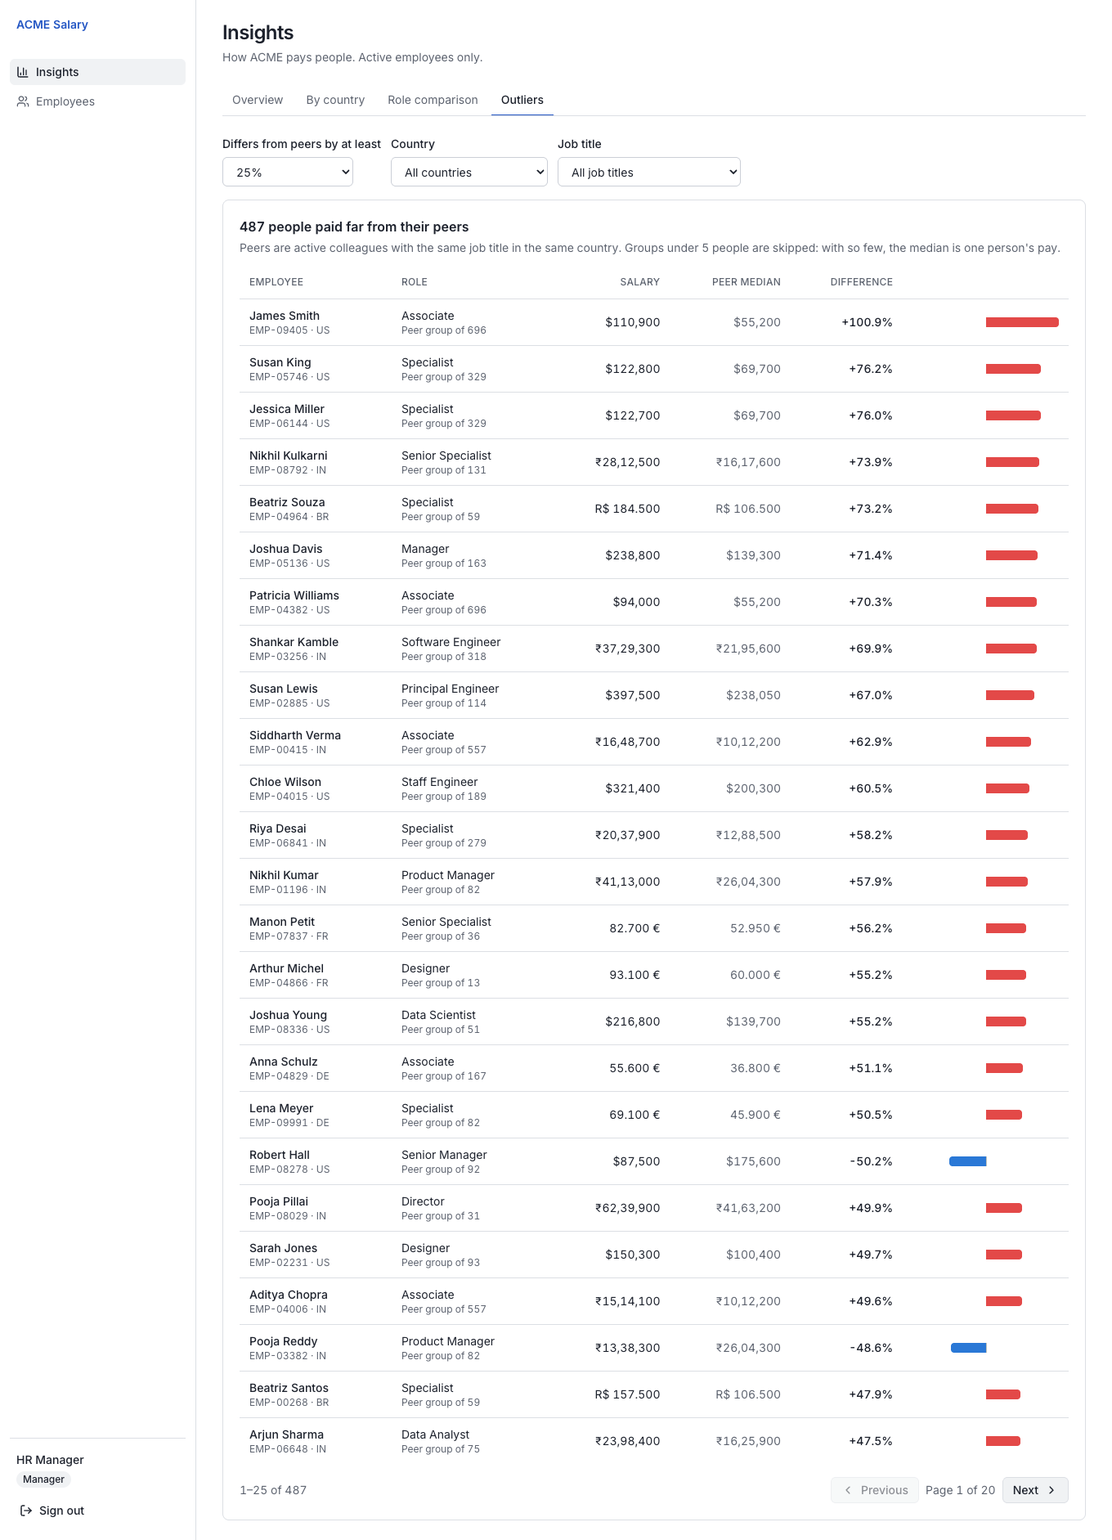
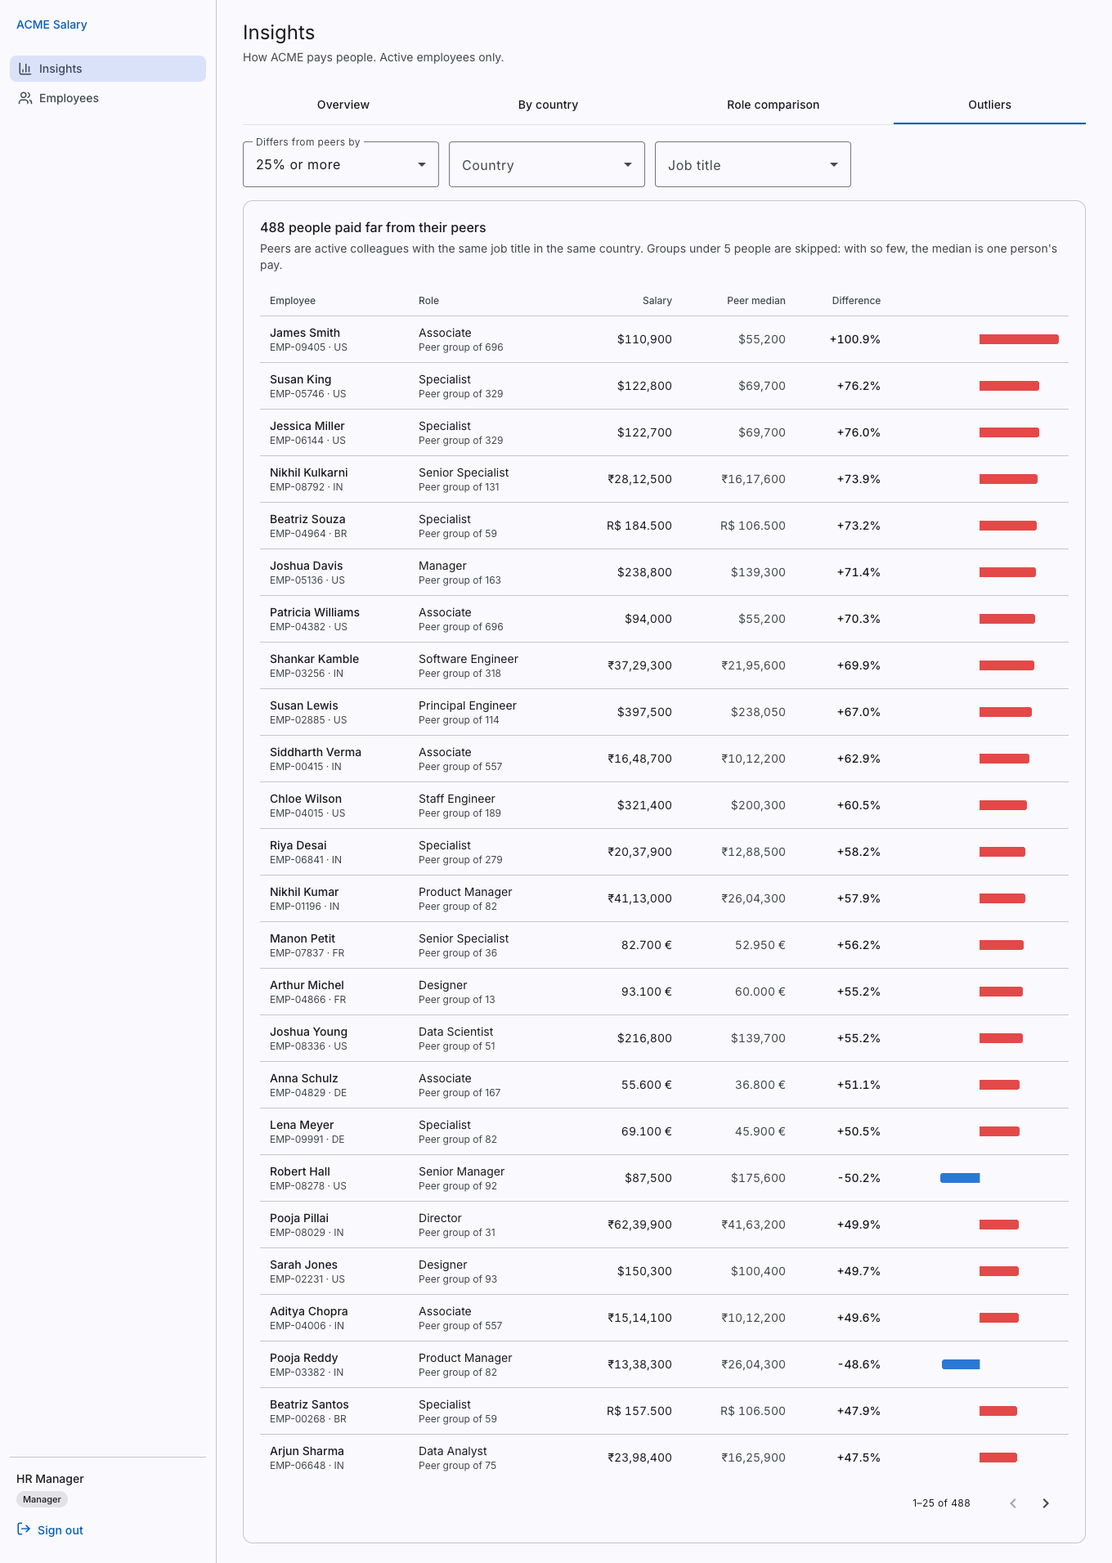
Document the Angular UI: ADR-0007, architecture, security, release 2.0.0
Architecture and security docs describe the Angular app and its nginx runtime, ADR-0007
records why the UI changed, the changelog adds release 2.0.0, and the screenshots are
retaken from the Angular release.

diff --git a/docs/architecture.md b/docs/architecture.md
@@ -11,19 +11,19 @@ flowchart LR
 
     subgraph release["compose.release.yml — one host"]
         direction LR
-        ui["frontend<br/>Next.js 16 standalone<br/>:3000 (only published port)"]
+        ui["frontend<br/>Angular 22 on nginx (unprivileged)<br/>:3000 (only published port)"]
         api["backend<br/>Spring Boot 4.1 · Java 21<br/>:8080 (internal)"]
         db[("postgres 16<br/>(internal, volume)")]
     end
 
     hr -- "HTTPS · session cookie<br/>HttpOnly · Secure · SameSite=Strict" --> ui
-    ui -- "pages: nonce CSP, auth redirect (proxy.ts)" --> ui
+    ui -- "static app · per-request CSP nonce" --> ui
     ui -- "/api/* proxied, same origin" --> api
     api -- "JDBC · Flyway migrations" --> db
 ```
 
-- The browser only ever talks to **one origin**. Next.js serves the pages and forwards `/api/*`
-  to Spring Boot, so cookies stay first-party and the API needs no CORS policy at all
+- The browser only ever talks to **one origin**. nginx serves the Angular app and forwards
+  `/api/*` to Spring Boot, so cookies stay first-party and the API needs no CORS policy at all
   ([ADR-0006](adr/0006-session-authentication.md)).
 - Only the UI port is published. The API and database are reachable solely inside the compose
   network; every container runs as a non-root user on a read-only filesystem with all Linux
@@ -85,7 +85,7 @@ reads are one hand-written SQL query per screen.
 sequenceDiagram
     autonumber
     participant B as Browser
-    participant P as Next.js proxy
+    participant P as nginx (/api proxy)
     participant S as Spring Security
     participant C as EmployeeCommandService
     participant E as Employee (domain)
@@ -176,32 +176,31 @@ erDiagram
 
 ## 5. Frontend
 
+Angular 22, standalone components, signals, zoneless ([ADR-0007](adr/0007-angular-frontend.md)).
+
 ```mermaid
 flowchart TB
-    subgraph app["src/app (routes)"]
-        login["(auth)/login"]
-        emp["(app)/employees · /employees/[id]"]
-        ins["(app)/insights · /countries · /roles · /outliers"]
+    routes["app.routes.ts<br/>/login · /employees · /employees/:id<br/>/insights · /countries · /roles · /outliers<br/>(lazy-loaded, authGuard)"]
+    subgraph features["src/app/features"]
+        auth["auth<br/>login page"]
+        employees["employees<br/>directory · detail · dialogs"]
+        insightsF["insights<br/>pages · charts · tables"]
+        reference["reference<br/>countries, departments, titles<br/>(loaded once)"]
     end
-    subgraph modules["src/modules (feature slices)"]
-        auth["auth"]
-        employees["employees"]
-        insightsM["insights"]
-        reference["reference"]
-    end
-    shared["src/shared<br/>api client (CSRF, typed errors) · UI primitives · formatting · CSP"]
-    proxy["src/proxy.ts<br/>nonce CSP · session redirect"]
+    core["src/app/core<br/>apiResource · interceptors (errors, CSRF retry)<br/>auth service + guard · icons"]
+    shared["src/app/shared<br/>formatting pipes · form errors · empty/error states"]
+    nginx["nginx<br/>CSP nonce → ngCspNonce · /api proxy · security headers"]
 
-    login --> auth
-    emp --> employees
-    ins --> insightsM
-    employees & insightsM --> reference
-    auth & employees & insightsM & reference --> shared
+    routes --> auth & employees & insightsF
+    employees & insightsF --> reference
+    auth & employees & insightsF & reference --> core
+    employees & insightsF --> shared
+    nginx -. serves .-> routes
 ```
 
-Each module follows Craveo's admin-app layout: `api/` (HTTP calls) → `hooks/` (TanStack Query)
-→ `components/`, with `types/` and `lib/` (pure, unit-tested logic such as URL state, form
-schemas and chart geometry).
+Each feature keeps `data/` (types, request builders and pure, unit-tested logic such as URL
+state, validators and chart geometry) apart from its components. Filter state lives in the
+URL, so every view can be bookmarked or shared.
 
 ## 6. Delivery pipeline
 
@@ -210,7 +209,7 @@ flowchart LR
     pr["Pull request"] --> ci
     subgraph ci["GitHub Actions"]
         be["backend<br/>mvn verify: 173 tests<br/>(Testcontainers Postgres)"]
-        fe["frontend<br/>audit · lint · 87 tests · build"]
+        fe["frontend<br/>audit · lint · 90 tests · build"]
         img["containers<br/>build images · Trivy scan<br/>(HIGH/CRITICAL fail)"]
         cq["CodeQL<br/>(once repo is public)"]
     end

diff --git a/SECURITY.md b/SECURITY.md
@@ -45,17 +45,17 @@ mistake does not become a breach — and making every security decision explicit
 | Repudiation of salary changes | Append-only history records who, when, what and why | `salary_history.changed_by` | `salaryChangeUpdatesSalary…` |
 | Exposed internals | Actuator exposes only `health` without details; API docs off unless enabled | `application.yml` | `otherActuatorEndpoints…` |
 | Vulnerable dependencies / code | Dependabot weekly (Maven, npm, Actions); CodeQL `security-extended` on every PR; CI fails on high/critical advisories in shipped frontend code | `.github/` | CI |
-| Malicious install scripts (npm supply chain) | pnpm 12 fails the install if any dependency not on the allow-list (only `unrs-resolver`) tries to run a script | `frontend/pnpm-workspace.yaml` | CI install |
+| Malicious install scripts (npm supply chain) | pnpm 12 fails the install if any dependency not on the allow-list (`esbuild`, `@parcel/watcher`) tries to run a script | `frontend/pnpm-workspace.yaml` | CI install |
 | Container breakout / lateral movement | Non-root user, read-only root filesystem, all Linux capabilities dropped, `no-new-privileges`, memory limits; only the UI port is published (API and database are internal to the compose network) | `compose.release.yml`, Dockerfiles | Verified on the running release |
-| Tools for an attacker inside the UI container | npm, npx and corepack are removed from the runtime image (the standalone server never needs them) | `frontend/Dockerfile` | Image scan + `command -v npm` |
+| Tools for an attacker inside the UI container | The UI image is nginx and static files only: no Node.js, no package manager | `frontend/Dockerfile` | Image scan |
 | Vulnerable images | CI builds both release images and fails on any fixable HIGH/CRITICAL finding (Trivy); Dependabot tracks base images | `.github/workflows/ci.yml` | CI `containers` job |
 | Hijacked CI actions | Third-party GitHub Actions pinned to full commit SHAs, not movable tags | `.github/workflows/ci.yml` | — |
-| Third-party fetches at build time | Font self-hosted from an npm package (`next/font/local`); the build makes no requests outside the package registry | `layout.tsx` | Offline build |
+| Third-party fetches at build time and runtime | Font and icons self-hosted from npm packages (`@fontsource-variable/inter`, `lucide-static`); the page loads nothing from other origins | `angular.json`, `styles.scss` | CSP `default-src 'self'` |
 | Hijacked fresh releases (npm supply chain) | `minimumReleaseAge`: no package version younger than 3 days is installed, directly or transitively | `frontend/pnpm-workspace.yaml` | CI `--frozen-lockfile` install |
-| XSS in the UI | React escaping; lint rule bans `dangerouslySetInnerHTML`; per-request nonce CSP with `strict-dynamic`, so injected scripts do not run | `proxy.ts`, `csp.ts`, `.eslintrc.json` | `csp.test.ts`; nonce verified on a production build |
-| Open redirect via `?next=` | Only same-site paths honoured after sign-in | `safeNextPath.ts` | `safeNextPath.test.ts`, `LoginForm.test.tsx` |
-| Data left behind on shared machines | Sign-out clears the entire client cache, not just the user | `useLogout` | — |
-| Search-engine exposure | `noindex, nofollow` on every page | `layout.tsx` | — |
+| XSS in the UI | Angular template escaping and sanitisation; lint rule bans `bypassSecurityTrust*` (one reviewed exception: the allow-listed icon resolver); per-request nonce CSP with `strict-dynamic` and no `unsafe-inline`, so injected scripts and styles do not run | `nginx/default.conf.template`, `index.html` (`ngCspNonce`), `eslint.config.mjs` | Browser checks report CSP violations: zero on every page |
+| Open redirect via `?next=` | Only same-site paths honoured after sign-in | `safe-next-path.ts` | `safe-next-path.spec.ts`, `login.page.spec.ts` |
+| Data left behind on shared machines | Sign-out ends the server session, then fully reloads the page so nothing from the session stays in memory | `shell.ts` | Browser check: `/me` returns 401 after sign-out |
+| Search-engine exposure | `noindex, nofollow` on every page | `index.html` | — |
 
 ## Deliberately out of scope (and what production would add)
 

diff --git a/README.md b/README.md
@@ -32,13 +32,13 @@ Only the UI port is published; the API and database stay inside the compose netw
 <details>
 <summary>Run from source instead (for development)</summary>
 
-Prerequisites: Java 21+, Docker, Node 22, pnpm 12.
+Prerequisites: Java 21+, Docker, Node 24, pnpm 12.
 
 ```bash
 docker compose up -d postgres                                   # Postgres 16 on localhost:5433
 cp .env.example .env && set -a && source .env && set +a
 (cd backend && ./mvnw -q -pl salary-app -am spring-boot:run)    # API on :8080
-(cd frontend && pnpm install && pnpm dev)                       # UI on http://localhost:3000
+(cd frontend && pnpm install && pnpm start)                     # UI on http://localhost:4200
 ```
 
 Tests: `cd backend && ./mvnw clean verify` (needs Docker for Testcontainers) and
@@ -64,8 +64,8 @@ Two roles: **HR Manager** (read and write) and **HR Analyst** (read only).
 | | |
 |---|---|
 | **Backend** | Java 21, Spring Boot 4.1 (Spring 7, Security 7, Hibernate 7, Jackson 3), PostgreSQL 16, Flyway 12 — a modular monolith with hexagonal modules, JPA for writes and SQL for reads |
-| **Frontend** | Next.js 16, React 19.3, TypeScript 6, TanStack Query, react-hook-form + zod 4, Tailwind 4, Recharts 3 |
-| **Tests** | 173 backend (JUnit 5, Mockito, Testcontainers 2, ArchUnit) · 87 frontend (Vitest, Testing Library) · browser checks with Playwright |
+| **Frontend** | Angular 22 (standalone, signals, zoneless), Angular Material, typed reactive forms, Chart.js 4, TypeScript 6 — served by unprivileged nginx ([ADR-0007](docs/adr/0007-angular-frontend.md)) |
+| **Tests** | 173 backend (JUnit 5, Mockito, Testcontainers 2, ArchUnit) · 90 frontend (Vitest, Angular Testing Library) · browser checks with Playwright |
 | **Delivery** | Every change through a pull request; CI runs tests, dependency audit, image build and Trivy scan; Dependabot weekly |
 
 The architecture mirrors an existing project of mine (Craveo), deliberately sized down: its
@@ -78,10 +78,10 @@ structure is kept, its infrastructure (Kafka, Redis, GraphQL, Kubernetes) is not
 |---|---|
 | [`REQUIREMENTS.md`](REQUIREMENTS.md) | Goal, scope, features, and what is deliberately left out — with reasons |
 | [`docs/architecture.md`](docs/architecture.md) | Diagrams: runtime, modules, request flow, data model, frontend, pipeline |
-| [`docs/adr/`](docs/adr/) | Six architecture decisions and their trade-offs |
+| [`docs/adr/`](docs/adr/) | Seven architecture decisions and their trade-offs |
 | [`SECURITY.md`](SECURITY.md) | Threat model: every threat, its control, and the test that proves it |
 | [`docs/performance.md`](docs/performance.md) | Measured timings at 10,000 employees, why, and where it would stop scaling |
 | [`docs/ai/README.md`](docs/ai/README.md) | How AI was used: the prompt log, and where review changed the outcome |
 | [`docs/PLAN.md`](docs/PLAN.md) | Phases, data model and test strategy |
 | [`docs/demo-script.md`](docs/demo-script.md) | Script for the demo video |
-| [`CHANGELOG.md`](CHANGELOG.md) | What release 1.0.0 contains, and its known limitations |
+| [`CHANGELOG.md`](CHANGELOG.md) | What each release contains, and its known limitations |

diff --git a/docs/ai/README.md b/docs/ai/README.md
@@ -121,6 +121,11 @@ conflict** — the exact "don't assume" failure the assessment screens for. It w
 when the recruiter's email named the role. The agent owned it, estimated the port (backend,
 API, tests and docs unchanged), and on approval rebuilt the UI in Angular.
 
+The port ran as four pull requests (#40 foundation, #41 employees, #42 insights, #43 cutover),
+each verified in a browser against the release containers before merging. The Next.js app was
+removed only in the last one, once the Angular UI did everything it did
+([ADR-0007](../adr/0007-angular-frontend.md)).
+
 ## Where human review changed the outcome
 
 Things caught by checking the agent's output against reality rather than accepting it:
@@ -166,3 +171,7 @@ Things caught by checking the agent's output against reality rather than accepti
 | **The UI was built in Next.js although the brief asked Java candidates for Angular.** | The user re-read the brief against the recruiter's email. | UI rebuilt in Angular; the backend and API were unaffected by design. Lesson: list every requirement and surface conflicts *before* building. |
 | The route guard called `inject()` after an `await` (NG0203): the app never redirected to sign-in. | Driving the container in a browser; a new guard test reproduces it. | Inject before the first await. |
 | A test kept failing after the fix. | Read the stack trace's line numbers against the file on disk. | Vitest's on-disk module cache served a stale compile; cleared, and documented in `CLAUDE.md`. |
+| Chart bar borders drew black. | Looked at the screenshots, not just the "chart painted" check. | Material's surface token is a `light-dark()` value, which canvas cannot parse; colours are now resolved through computed style. |
+| The role-comparison chart showed bands but no median dots. | Same screenshot review. | A line series on a horizontal bar chart plots on the wrong axis; points now carry explicit `{x, y}`. Unit test updated to assert the shape. |
+| The outliers page scrolled sideways at 768px, the same bug fixed earlier in the Next.js UI. | The overflow check at four widths, then listing every element past the viewport edge. | Screen-reader-only text escaped the scroll box again; the scroller is `relative`, and the Role column waits for 1024px. |
+| A scripted edit of `compose.release.yml` matched the wrong `volumes:` and mangled the file. | Read the diff before committing (37,000 changed lines for a 10-line change). | Restored from git; redid the edit with anchored markers. Never committed. |

diff --git a/docs/adr/0007-angular-frontend.md b/docs/adr/0007-angular-frontend.md
@@ -1,0 +1,43 @@
+# ADR-0007: Angular for the frontend
+
+**Status:** Accepted (supersedes the frontend rows of [ADR-0004](0004-what-we-left-out-from-craveo.md))
+
+## Context
+
+The brief lists the UI options as *"ReactJS or NextJS. AngularJS for Java"*. The role is a Java
+and Angular position, so the Java track's option applies: Angular.
+
+The first UI was built in Next.js, because the plan mirrored Craveo, whose admin app is Next.js.
+That followed the reference project instead of the brief. It was caught after the backend,
+the full UI and the release were done, and the UI was rebuilt in Angular in four pull
+requests (#40–#43) against the unchanged API.
+
+"AngularJS" (1.x) reached end of life in January 2022 and gets no security fixes. Shipping it
+would contradict the security posture of the rest of the system, so the brief is read as
+modern Angular.
+
+## Decision
+
+- **Angular 22** with Angular Material: standalone components, signals, zoneless change
+  detection, `OnPush` everywhere.
+- **Data:** `HttpClient` + `httpResource` through one small `apiResource` helper (unwraps the
+  API envelope, keeps the previous value while reloading, normalises errors). Angular's
+  built-in XSRF support sends `X-XSRF-TOKEN`; one interceptor retries once with a fresh token.
+- **Forms:** typed reactive forms with small, unit-tested validators; server field errors are
+  mapped back onto the form controls.
+- **Charts:** Chart.js behind one `app-chart` component. Chart configurations are pure
+  functions with unit tests; every chart has a table with the same numbers.
+- **Serving:** the production build is static files served by unprivileged nginx, which also
+  proxies `/api` to the backend, so the browser sees a single origin (ADR-0006). nginx puts a
+  per-request nonce into the page for the CSP (`ngCspNonce`). There is no Node.js at runtime.
+- **Tests:** Vitest through the Angular CLI with Testing Library; `HttpTestingController` for
+  pages that load data.
+
+## Consequences
+
+- Same API, behaviour and security model as before; the backend did not change.
+- The UI image went from 293 MB (Node standalone server) to 93 MB (nginx and static files),
+  and the runtime has no package manager or JavaScript engine to abuse.
+- Session-based route protection moved from server middleware to a route guard plus the API's
+  own 401s. The guard is a convenience; the API remains the security boundary.
+- Angular packages must move together, so Dependabot groups them into one PR.

diff --git a/docs/PLAN.md b/docs/PLAN.md
@@ -23,6 +23,7 @@ linked PRs, ADRs and the [AI log](ai/README.md).
 | 12 | Deploy | Neon + Render + Vercel | ↪ **Not deployed by decision**; replaced by a hardened containerised release (one `docker compose` command) |
 | — | *Spring Boot 4 (unplanned)* | | ✅ #24 — Boot 3.5 had left OSS support; container scan found Spring CVEs fixed only in Spring 7 |
 | 13 | Wrap-up | Performance notes, architecture diagram, README, demo video | ✅ [`architecture.md`](architecture.md), [`performance.md`](performance.md), [`demo-script.md`](demo-script.md) (the video is recorded from that script) |
+| — | *Angular UI (unplanned)* | | ✅ #40–#43 — the brief names Angular for the Java track; the Next.js UI was rebuilt in Angular against the unchanged API ([ADR-0007](adr/0007-angular-frontend.md)) |
 
 ## Target structure
 
@@ -33,8 +34,8 @@ salary-mgmt/
 │   ├── salary-employee/    employees + salary history (hexagonal)
 │   ├── salary-insights/    read-side analytics (SQL)
 │   └── salary-app/         Spring Boot launcher, Flyway, seeder, config
-├── frontend/               Next.js 14 (App Router)
-│   └── src/{app, modules/{employees,insights}, shared}
+├── frontend/               Angular 22 + Angular Material, served by nginx
+│   └── src/app/{core, features/{auth,employees,insights,reference}, shared}
 └── docs/                   ADRs, plan, AI usage, performance notes
 ```
 
@@ -65,4 +66,4 @@ Indexes: `employees(country_code, job_title_id)`, `employees(department_id)`,
 | Web | `@WebMvcTest` | Request validation, error envelope, paging params |
 | SQL / API | Testcontainers Postgres | Read-model SQL, constraints, median/percentiles, FX conversion on small known datasets |
 | Architecture | ArchUnit | Layer and module boundaries |
-| Frontend | Vitest + Testing Library | Form validation, filter ↔ query mapping, table states |
+| Frontend | Vitest + Angular Testing Library | Form validation, filter ↔ query mapping, table states |

diff --git a/docs/adr/0004-what-we-left-out-from-craveo.md b/docs/adr/0004-what-we-left-out-from-craveo.md
@@ -20,10 +20,7 @@ Its architecture carries infrastructure sized for that. This product has one per
 | Lombok | Keep | Less boilerplate on entities |
 | MapStruct | **Drop** (revised) | Only two small mappings; hand-written is clearer (ADR-0005) |
 | ArchUnit, Testcontainers, `@WebMvcTest` | Keep | Enforced boundaries; real-DB SQL tests; thin web tests |
-| Next.js admin app layout (`modules/<feature>/{api,hooks,components,types}`) | Keep | Feature-sliced frontend |
-| TanStack Query, axios, react-hook-form + zod, Tailwind tokens | Keep | Same conventions |
-| Next.js 14 | **Upgrade to 16** (latest) | 14.x is out of support with unpatched critical advisories (RCE in image optimisation, SSRF in rewrites). Frontend tracks latest majors: Next 16, React 19.3, Tailwind 4, zod 4, Vitest 5. TypeScript 6 / ESLint 9 are the newest that `eslint-config-next` supports. |
-| Radix-style headless components | **Native `<dialog>` / `<select>`** | Browser-provided focus trapping and keyboard support, zero dependencies |
+| Next.js admin app (layout, TanStack Query, react-hook-form + zod, Tailwind) | Kept at first, **then replaced by Angular** | The brief names Angular for the Java track; see [ADR-0007](0007-angular-frontend.md). The feature-sliced structure carried over. |
 | Kafka + transactional outbox | **Drop** | No cross-service consumers; a DB transaction is enough |
 | Redis cache | **Drop** | Aggregates over 10k rows take milliseconds in Postgres |
 | GraphQL | **Drop** | A handful of REST endpoints serve one UI |

diff --git a/docs/performance.md b/docs/performance.md
@@ -5,7 +5,7 @@ stop being fast. Every number below was measured, not estimated.
 
 **Environment:** MacBook (Apple silicon), Postgres 16 in local Docker, production builds of
 both apps, warm caches, 10,000 seeded employees with ~69,000 salary-history rows. Timings are
-end-to-end HTTP through the Next.js proxy unless noted.
+end-to-end HTTP through the UI's proxy unless noted.
 
 ## Measured
 
@@ -25,9 +25,9 @@ end-to-end HTTP through the Next.js proxy unless noted.
 | Outliers at 30% (peer medians for every role × country) | 60 ms |
 | **CSV export, whole workforce** (10,004 rows, 1.3 MB) | **0.36 s** |
 | Backend startup | ~7 s (unloaded machine) |
-| Frontend production build | ~8 s (Turbopack, offline: no font fetch) |
-| Release images | backend 415 MB · frontend 293 MB |
-| Test suites | backend 173 tests ~2 min (incl. Postgres container) · frontend 87 tests ~5 s |
+| Frontend production build | ~4 s (Angular CLI / esbuild); 157 kB initial transfer, pages lazy-loaded |
+| Release images | backend 415 MB · frontend 93 MB (nginx + static files) |
+| Test suites | backend 173 tests ~2 min (incl. Postgres container) · frontend 90 tests ~5 s |
 
 ## Why it is fast
 

diff --git a/CHANGELOG.md b/CHANGELOG.md
@@ -1,5 +1,22 @@
 # Changelog
 
+## 2.0.0 — 2026-10-18
+
+The UI is rebuilt in **Angular**, as the brief specifies for the Java track
+([ADR-0007](docs/adr/0007-angular-frontend.md)). Features, API and security model are unchanged.
+
+### Changed
+
+- Frontend: Angular 22, Angular Material, Chart.js 4, TypeScript 6 (replaces Next.js 16 / React).
+- UI container: static files on unprivileged nginx (93 MB, was 293 MB); no Node.js at runtime.
+  nginx proxies `/api` and issues a per-request CSP nonce.
+- CI, Dependabot and the release workflow build, test and scan the Angular app.
+
+### Quality
+
+- 90 frontend tests (Vitest, Angular Testing Library); browser checks of every page at four
+  widths in light and dark mode: no CSP violations, no console errors, no horizontal overflow.
+
 ## 1.0.0 — 2026-10-18
 
 First release: salary management for ACME's HR team, replacing spreadsheets.

diff --git a/REQUIREMENTS.md b/REQUIREMENTS.md
@@ -67,7 +67,8 @@ local currency so HR never sees a number that shifted because an exchange rate m
   role, so the UI is **Angular**. "AngularJS" (1.x) reached end of life in January 2022 and
   receives no security fixes, so this is read as modern Angular, the framework the role names.
   (The first UI was built in Next.js, following an instruction to mirror an existing project;
-  that conflicted with the brief and has been replaced — see the AI log.)
+  that conflicted with the brief and has been replaced — see
+  [ADR-0007](docs/adr/0007-angular-frontend.md) and the AI log.)
 
 ## Non-functional requirements
 
